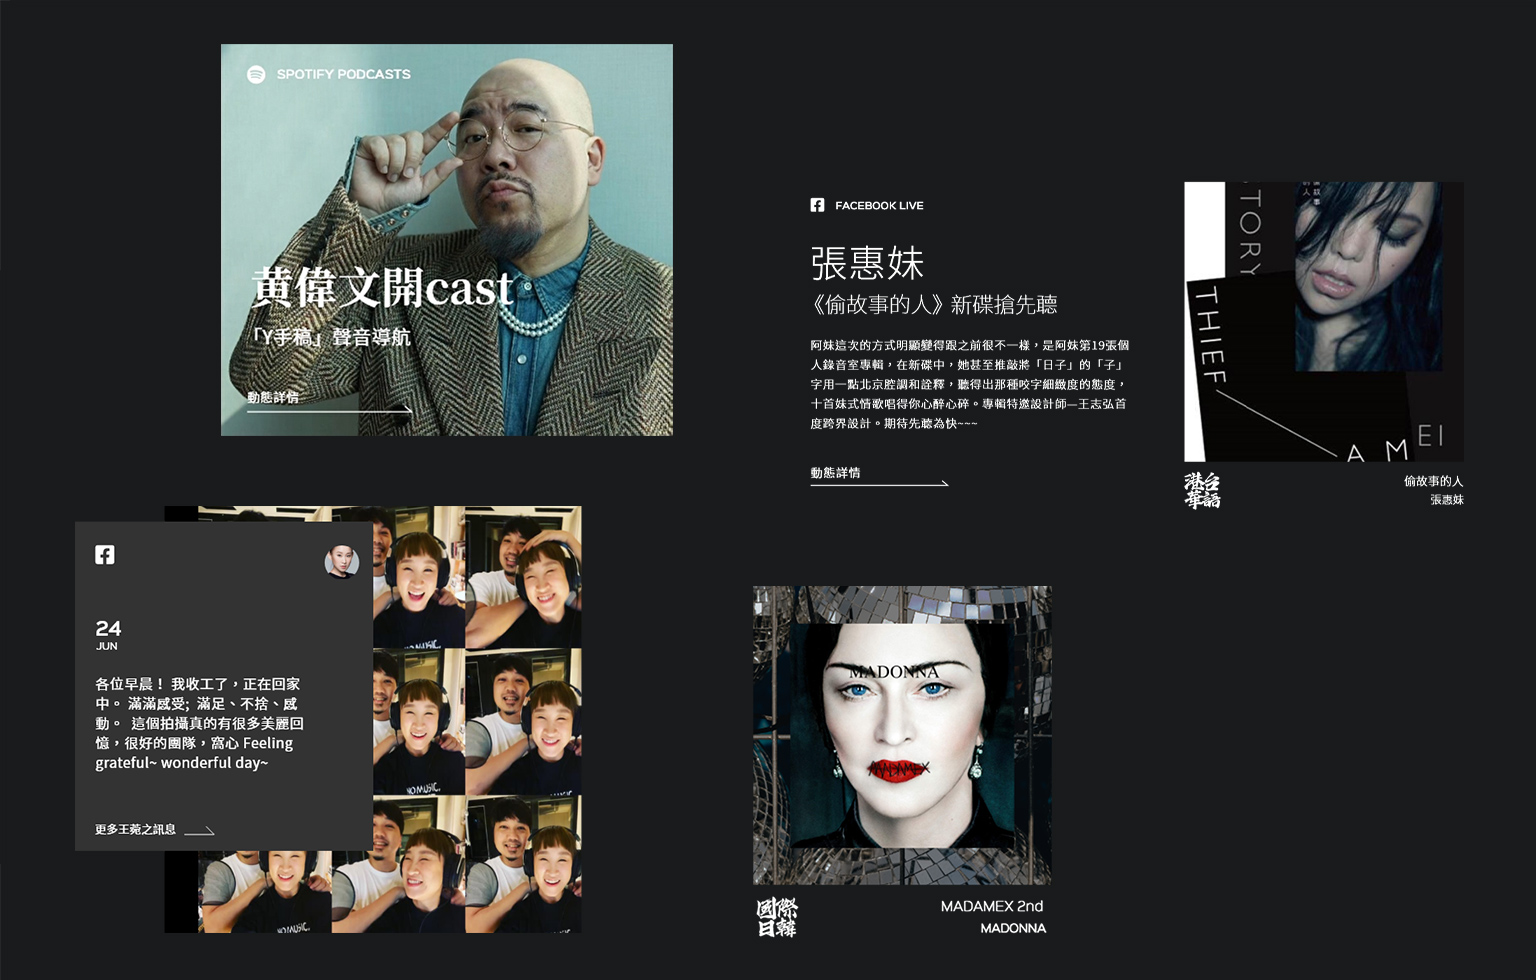
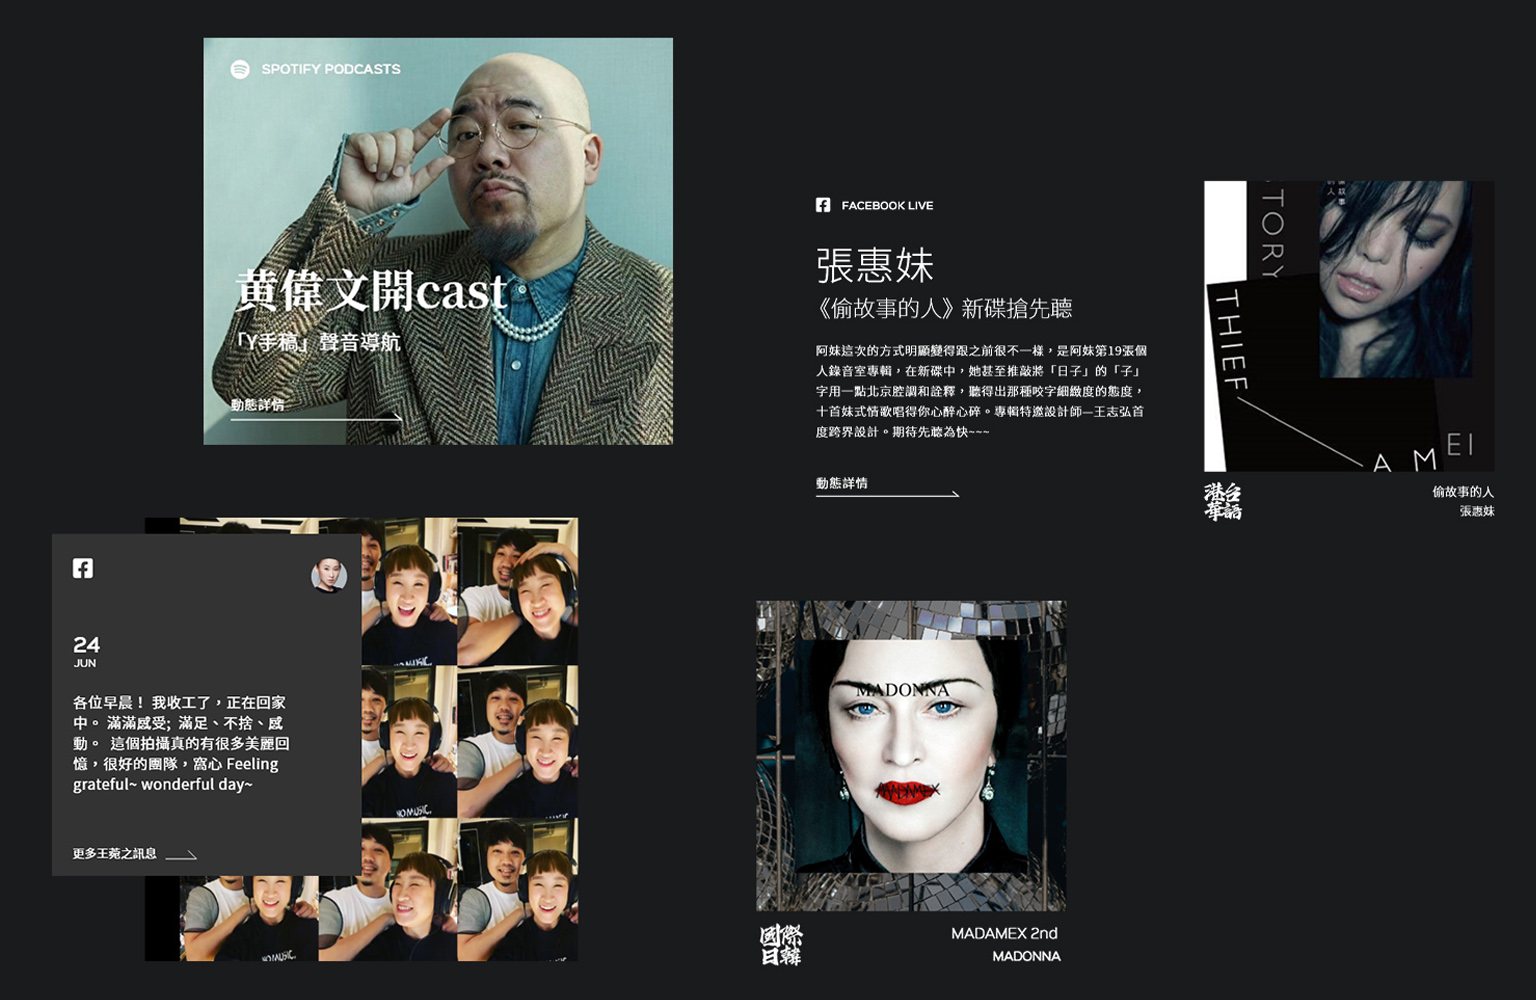
201223

diff --git a/project/umg_hk.html b/project/umg_hk.html
@@ -521,7 +521,7 @@
       <div class="parallax-8 spacing-sub-title">
         <a class="image-popup-fit-width" title="Click on image to enlarge/reduce it"  href="../images/projects/umg_hk/content.jpg"><img class="spacing-medium observable lazy" data-src="../images/projects/umg_hk/content.jpg" /></a>
       </div>
-      <div class="parallax-3 parallax-copy-shw spacing-medium">
+      <div class="parallax-3 spacing-medium">
       <p class="observable h1 spacing-title">Core Content</p>
         <p class="observable body spacing-medium">According previous findings, Artist's social event and CD as major content. Adopting 4 styles of content design allows for quicker recognition for the purpose of connecting with target audience.</p>
       </div>

diff --git a/stylesheets/projects/umg_hk.css b/stylesheets/projects/umg_hk.css
@@ -570,7 +570,8 @@ body, .body {
 
     .parallax-8 {
         top: 0vh;
-        width: 38vw;
+        left: -1vw;
+        width: 39vw;
     }
 
     .parallax-1 img {
@@ -857,7 +858,7 @@ body, .body {
     .parallax-8 img {
         top: -6vh;
         left: -5vw;
-        width: 45vw;
+        width: 46vw;
     }
 
     .parallax-3 p {
